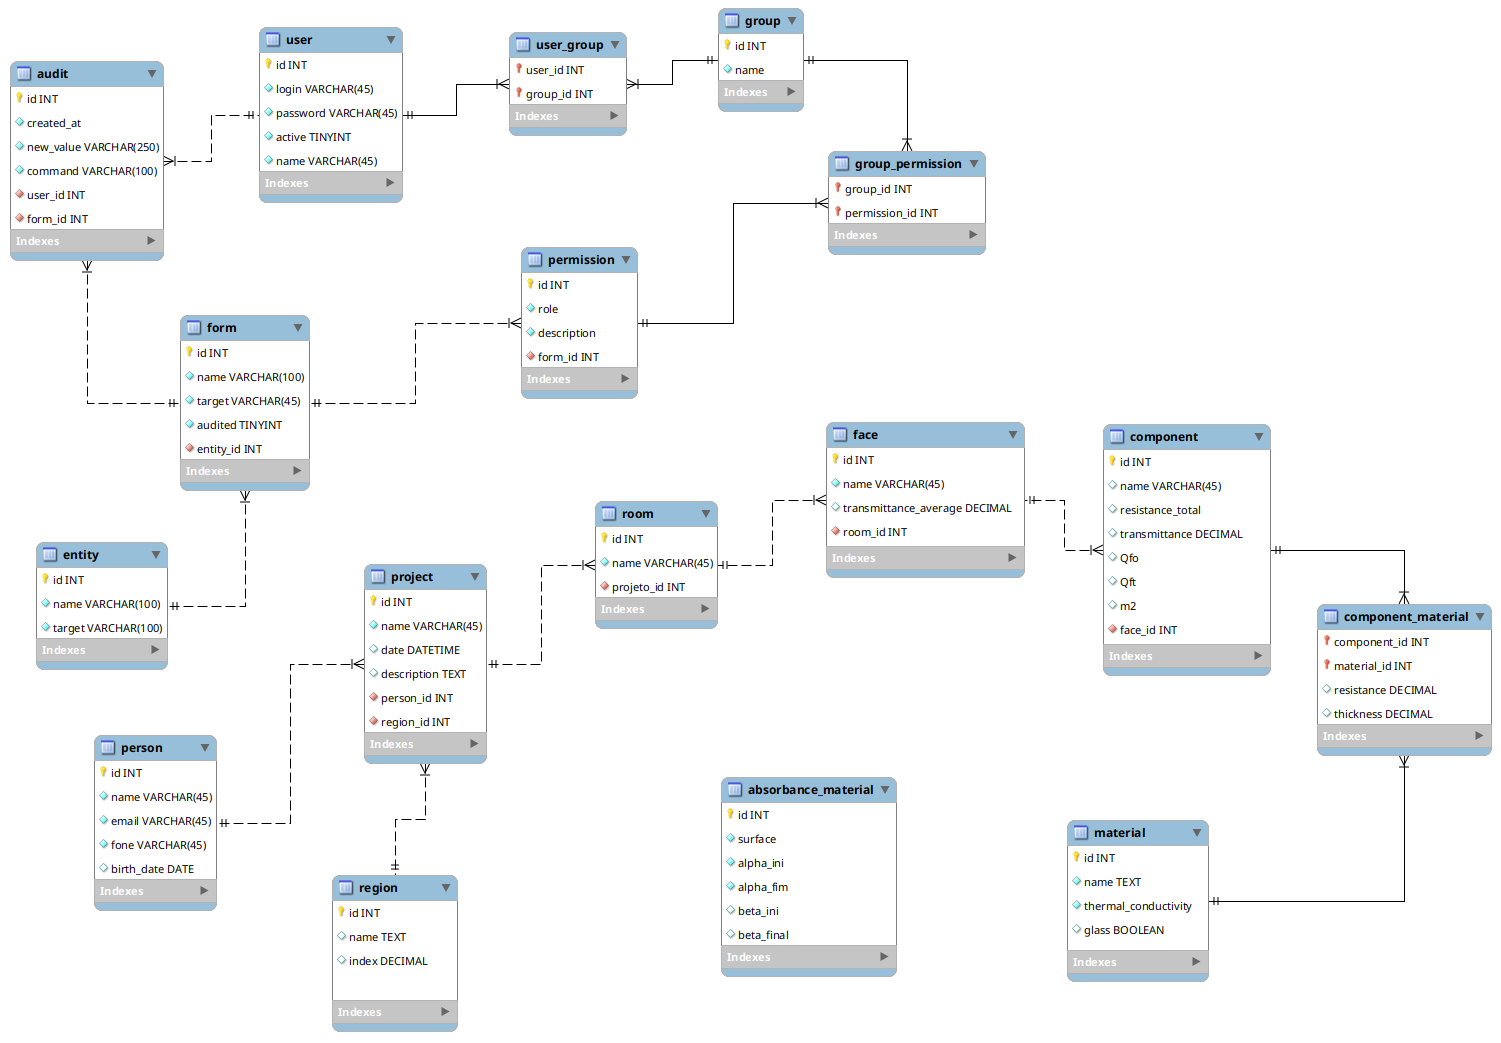
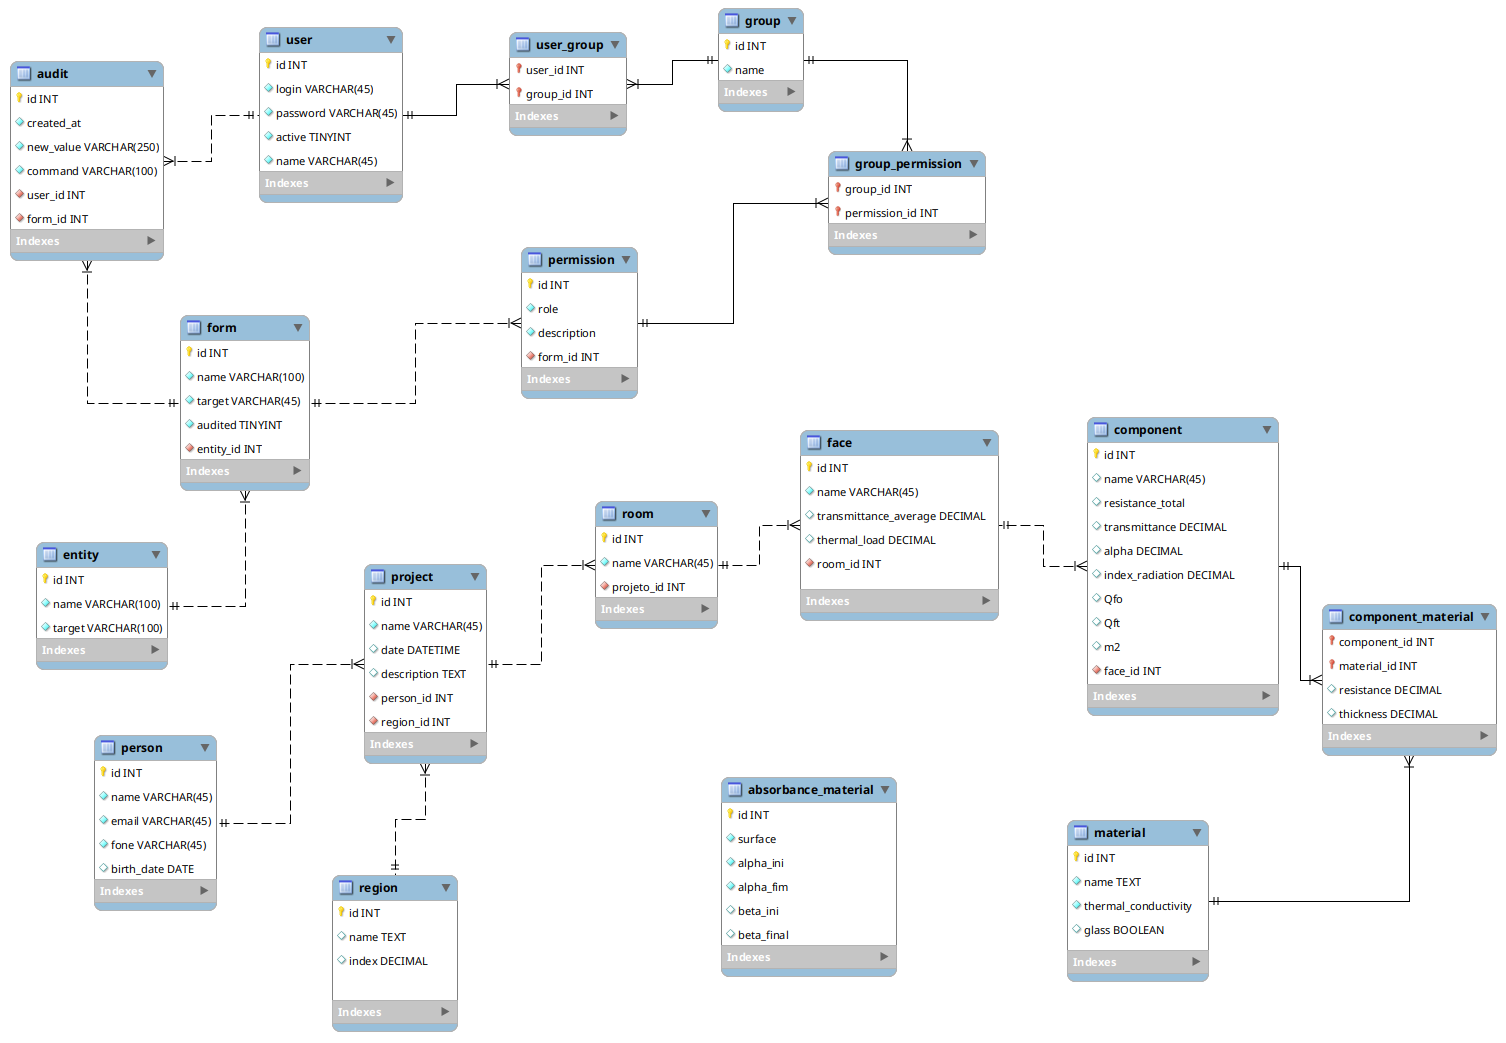
Adicionado novos campos e calculo da carga termica

diff --git a/src/main/java/projetointegrador/model/Component.java b/src/main/java/projetointegrador/model/Component.java
@@ -30,6 +30,21 @@ public class Component implements Serializable {
     @Column
     private BigDecimal transmittance;
 
+    @Column
+    private BigDecimal alpha;
+
+    @Column
+    private BigDecimal indexRadiation;
+
+    @Column
+    private BigDecimal qfo;
+
+    @Column
+    private BigDecimal qft;
+
+    @Column
+    private BigDecimal m2;
+
     @ManyToOne
     @JoinColumn(name = "face_id")
     private Face face;
@@ -47,22 +62,46 @@ public class Component implements Serializable {
     private BigDecimal rsi;
 
     public BigDecimal calculateResistanceTotal() {
-        return this.resistanceTotal =
-                RSE.add(
-                this.componentMaterials
+        BigDecimal resistanceSum = this.componentMaterials
                 .stream()
                 .map(ComponentMaterial::getResistance)
                 .reduce(BigDecimal::add)
-                .orElse(BigDecimal.ZERO))
-                .add(this.rsi).setScale(4, RoundingMode.HALF_EVEN);
+                .orElse(BigDecimal.ZERO);
+
+        return this.resistanceTotal =
+                RSE.add(resistanceSum).add(this.rsi).setScale(4, RoundingMode.HALF_EVEN);
     }
 
     public BigDecimal calculateTransmittance() {
-        return this.transmittance = new BigDecimal(1).divide(this.resistanceTotal,4, RoundingMode.HALF_EVEN);
+        return this.transmittance = new BigDecimal(1).divide(this.resistanceTotal, 4, RoundingMode.HALF_EVEN);
     }
 
     public void addMaterial(Material material) {
         this.getComponentMaterials().forEach(componentMaterial -> componentMaterial.setMaterial(material));
+    }
+
+    public BigDecimal calculateHeatFlowWinter(BigDecimal outsideTemperature, BigDecimal insideTemperature) {
+        return this.transmittance
+                .multiply(outsideTemperature.subtract(insideTemperature).abs()).setScale(4, RoundingMode.HALF_EVEN);
+    }
+
+    public BigDecimal calculateHeatFlowSummer(BigDecimal outsideTemperature, BigDecimal insideTemperature) {
+        BigDecimal deltaTemperature = outsideTemperature.subtract(insideTemperature).abs();
+
+        this.qfo = this.transmittance.multiply(this.alpha.multiply(this.indexRadiation).multiply(RSE).add(deltaTemperature))
+                .setScale(4, RoundingMode.HALF_EVEN);
+
+        return calculateQFO(this.qfo);
+    }
+
+    private BigDecimal calculateQFO(BigDecimal qfo) {
+        return this.qfo = qfo.multiply(this.m2);
+    }
+
+
+    public BigDecimal calculateQFT(BigDecimal outsideTemperature, BigDecimal insideTemperature, BigDecimal solarFactor) {
+        this.qft = outsideTemperature.subtract(insideTemperature).abs().add(solarFactor.multiply(this.indexRadiation));
+        return this.qfo.multiply(m2);
     }
 
 

diff --git a/src/main/java/projetointegrador/model/Face.java b/src/main/java/projetointegrador/model/Face.java
@@ -28,6 +28,9 @@ public class Face implements Serializable {
     @Column
     private BigDecimal transmittanceAverage;
 
+    @Column
+    private BigDecimal thermalLoad;
+
     @ManyToOne
     @JoinColumn(name = "room_id")
     private Room room;
@@ -45,15 +48,13 @@ public class Face implements Serializable {
         return this.transmittanceAverage;
     }
 
-    public BigDecimal calculateHeatFlowWinter(BigDecimal outsideTemperature, BigDecimal insideTemperature ) {
-        return this.transmittanceAverage
-                .multiply(outsideTemperature.subtract(insideTemperature)).setScale(4, RoundingMode.HALF_EVEN);
+    public BigDecimal calculateThermalLoad() {
+        return this.components.stream()
+                .map(component -> component.getQfo().add(component.getQft()))
+                .reduce(BigDecimal::add).orElse(BigDecimal.ZERO);
     }
 
-    public BigDecimal calculateHeatFlowSummer(BigDecimal outsideTemperature, BigDecimal insideTemperature ) {
-        return this.transmittanceAverage
-                .multiply(outsideTemperature.subtract(insideTemperature)).setScale(4, RoundingMode.HALF_EVEN);
-    }
+
 
 
 }

diff --git a/src/main/java/projetointegrador/model/enums/FlowType.java b/src/main/java/projetointegrador/model/enums/FlowType.java
@@ -1,0 +1,31 @@
+package projetointegrador.model.enums;
+
+import projetointegrador.model.Component;
+import projetointegrador.model.Face;
+
+import java.math.BigDecimal;
+
+public enum FlowType {
+
+    SUMMER("Verão") {
+        @Override
+        public void calculateHeatFlow(Component component, BigDecimal outsideTemperature, BigDecimal insideTemperature) {
+            component.calculateHeatFlowSummer(outsideTemperature, insideTemperature);
+        }
+    },
+    WINTER("Inverno") {
+        @Override
+        public void calculateHeatFlow(Component component, BigDecimal outsideTemperature, BigDecimal insideTemperature) {
+            component.calculateHeatFlowWinter(outsideTemperature, insideTemperature);
+        }
+    };
+
+    private String name;
+
+    FlowType(String name) {
+        this.name = name;
+    }
+
+    public abstract void calculateHeatFlow(Component component, BigDecimal outsideTemperature, BigDecimal insideTemperature);
+
+}

diff --git a/src/test/java/projetointegrador/HeatFlowAmountTest.java b/src/test/java/projetointegrador/HeatFlowAmountTest.java
@@ -18,10 +18,11 @@ public class HeatFlowAmountTest {
     @Test
     @After
     public void mustBeCalculateWinterHeatFlow () {
-        Face face1 = new Face();
-        face1.setTransmittanceAverage(new BigDecimal(0.0667));
+        Component component = new Component();
+        component.setTransmittance(new BigDecimal(0.0667));
 
-        BigDecimal qfo = face1.calculateHeatFlowWinter(new BigDecimal(30), new BigDecimal(25));
+        BigDecimal qfo = component.calculateHeatFlowWinter(new BigDecimal(30), new BigDecimal(25));
+
         BigDecimal expectedValue = new BigDecimal(0.3335).setScale(4, RoundingMode.HALF_EVEN);
 
         Assert.assertEquals(expectedValue, qfo.setScale(4, RoundingMode.HALF_EVEN));

diff --git a/src/main/java/projetointegrador/model/enums/Rsi.java b/src/main/java/projetointegrador/model/enums/Rsi.java
@@ -1,0 +1,20 @@
+package projetointegrador.model.enums;
+
+import java.math.BigDecimal;
+
+public enum Rsi {
+
+    UP(new BigDecimal(0.10)),
+    BOTTOM(new BigDecimal(0.17)),
+    LEFT_RIGHT(new BigDecimal(0.13));
+
+    private BigDecimal value;
+
+     Rsi(BigDecimal value) {
+        this.value = value;
+    }
+
+    public BigDecimal getValue() {
+        return value;
+    }
+}
